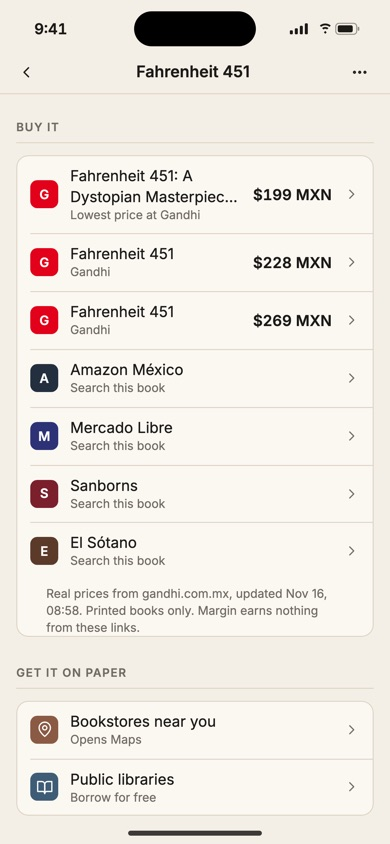
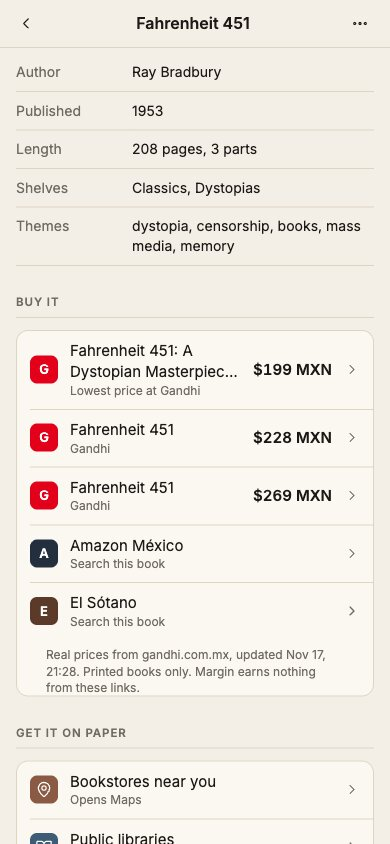
technical docs, updated design justification and website screenshots

diff --git a/site/index.html b/site/index.html
@@ -105,10 +105,10 @@
           <p>Choose 15, 25, 45 or 60 minutes and put the phone face down. It vibrates when time's up. In the iPhone version, the apps you pick go quiet until then.</p>
           <img class="step-img" loading="lazy" src="img/focus-390.webp" width="390" height="844" alt="Focus mode: choose 15, 25, 45 or 60 minutes, then put the phone face down.">
         </li>
-        <li class="step" data-shot="img/close.webp" data-alt="After logging, Margin says: now close the app and go read.">
-          <h3><span class="n">5</span>Close the app</h3>
-          <p>After you log, Margin tells you to close it and go read. There is no feed to scroll. Reminders come four times a week at most, with a line from your book.</p>
-          <img class="step-img" loading="lazy" src="img/close-390.webp" width="390" height="844" alt="After logging, Margin says: now close the app and go read.">
+        <li class="step" data-shot="img/close.webp" data-alt="After logging: the pages you added, your momentum and a Done button.">
+          <h3><span class="n">5</span>Done for today</h3>
+          <p>After you log you see the pages you added and your momentum, and that's it. There is no feed to scroll. Reminders come four times a week at most, with a line from your book.</p>
+          <img class="step-img" loading="lazy" src="img/close-390.webp" width="390" height="844" alt="After logging: the pages you added, your momentum and a Done button.">
         </li>
       </ol>
       <div class="how-phone" aria-hidden="true">
@@ -182,7 +182,7 @@
         <div class="stores">
           <h3>Also searched from the book's page</h3>
           <p>Amazon México and El Sótano. Or skip buying: Margin can open the bookstores near you in Maps, or point you to a public library.</p>
-          <figure class="phone phone-xs"><img loading="lazy" src="img/buy.webp" width="780" height="1688" alt="Buy it section for Fahrenheit 451: Gandhi at $199, $228 and $269 MXN, then Amazon México, Mercado Libre, Sanborns and El Sótano."></figure>
+          <figure class="phone phone-xs"><img loading="lazy" src="img/buy.webp" width="780" height="1688" alt="Buy it section for Fahrenheit 451: Gandhi at $199, $228 and $269 MXN, then Amazon México and El Sótano."></figure>
         </div>
       </div>
     </div>

diff --git a/DesignJustification.md b/DesignJustification.md
@@ -42,10 +42,10 @@ Better to prevent the error than to explain it later (Norman; Nielsen 5).
 ## 5. Ethical design
 We didn't want guilt or aggressive notifications.
 - At most 4 reminders per week; if you ignore 3 in a row, they are cut in half, and they never arrive if you already read that day (`ReminderPlanner.cs`).
-- There is no infinite feed. The tabs are Home, Explore, Log, Diary and Profile, and the friends' activity on Home is a short list that ends.
-- At the end of the check-in: "Now close the app and go read."
+- There is no infinite feed. The tabs are Home, Explore, Log, Library and Profile, and the friends' activity on Home is a short list that ends.
+- At the end of the check-in you only see the pages you added and your momentum, and a "Done" button. Before, this screen said "Now close the app and go read" and offered "Keep reading in Focus mode". We took both out: when you log, your reading session is already over, so telling you to go read (or to read more) didn't make sense.
 
-<img src="screenshots/closing.jpg" width="240" alt="The app asks you to close it and read">
+<img src="screenshots/closing.jpg" width="240" alt="The end of a session: pages added, momentum and Done">
 
 ## 6. Transparent AI
 - Each quiz says the questions were made with AI and reviewed by people.
@@ -111,7 +111,7 @@ Nielsen's heuristic 6: it is easier to recognize than to remember.
 ## 13. Getting the book on paper (mapping)
 The goal is reading on paper, so the Book screen ends with "Buy it".
 - Real prices from Librerías Gandhi, only printed books, with the lowest one first. The price is the real one, not an estimate, and it says when it was updated.
-- Links to search the same book in other Mexican stores, using the Spanish title so the search works.
+- Links to search the same book in Amazon México and El Sótano, using the Spanish title so the search works.
 - It says that Margin earns nothing from these links.
 - The FIL Guadalajara banner on Home links to the real fair. You can close it and it disappears after the fair ends.
 
@@ -129,6 +129,13 @@ Fogg (B = MAP): if something is hard to start, fewer people try it. An account f
 - Friends only see a short public summary. You can hide your current book and set your activity to "Only me".
 - Reflections are never shared and we don't use your writing to train any AI.
 
+## 16. Starting and finishing a book (feedback and motivation)
+Starting a book is a big decision, so we gave it its own moment instead of a small toast.
+- "Start reading" is the main button (in the accent color) on a book page when you are not reading anything. If you are already reading another book, the main button stays "Want to read", so you don't replace your book by accident.
+- Before you start, a screen shows the length, about how many weeks it will take at your pace and today's goal. When you confirm there is a little confetti and you go back to Home to log your reading.
+- When you finish a book you see the achievements you unlocked, you can rate it, post a review or share it.
+- "Find your next book" asks five questions and also learns from what you read and rated (`NextBook.cs`). Every result says why it was picked, so it is not a black box.
+
 ## Summary: where each decision comes from
 | Decision | Why | File |
 |---|---|---|
@@ -139,11 +146,12 @@ Fogg (B = MAP): if something is hard to start, fewer people try it. An account f
 | Optional quiz with explanation | Testing effect, feedback | `QuizScreen` in `BookFlowScreens.cs` |
 | At most 4 reminders | Ethical design | `ReminderPlanner.cs` |
 | "Written by a human" stamp | Students worry that using AI makes them stop thinking | `ReflectionScreen` in `BookFlowScreens.cs` |
-| "Now close the app" | People understand better on paper | `ClosingScreen` in `BookFlowScreens.cs` |
+| Short end of session, just "Done" | The session is already over, no extra time in the app | `ClosingScreen` in `BookFlowScreens.cs` |
 | Friends see progress, no rankings | Social support without guilt | `SocialGraph.cs`, `ProfileSummary.cs` |
 | Search by name and invite link | Recognition over recall | `FindFriendsScreen` in `SettingsSocialScreens.cs`, `InviteLink.cs` |
 | Only lists, texts and YouTube links | Constraints, no infinite feed | `PostRules.cs` |
 | "Buy it" with real prices | Mapping to the real goal: a paper book | `Commerce.cs`, `Shop` in `MainScreens.cs` |
+| A screen to start a book, achievements at the end | Feedback, motivation | `StartBookScreen`, `FinishedScreen` in `BookFlowScreens.cs` |
 | Guest mode | Fogg: lower the cost to start | `WelcomeScreen` in `AuthScreens.cs`, `AccountService.cs` |
 
 What we changed because of the interviews and tests is in [UserResearch.md](UserResearch.md) and [UserTesting.md](UserTesting.md).

diff --git a/TECHNICAL.md b/TECHNICAL.md
@@ -1,0 +1,75 @@
+# Technical documentation
+
+How the code is organized and how to change it.
+
+## Folders
+
+- `Assets/Scripts/Core`: the logic in plain C# (no Unity). Reading momentum, the check-in, the quiz, recommendations, reminders and the social rules.
+- `Assets/Scripts/App`: the Unity app. Screens, saving, notifications and the connection to the backend.
+- `Assets/Editor`: creates the scene and sets up the iOS build.
+- `Assets/Resources/Data`: the data files (`books.json`, `reviews.json`, `quotes.json`, `tuning.json`, `backend.json`).
+- `Assets/Resources/UI/app.uss`: colors and styles.
+- `Assets/Tests/EditMode` and `tests-dotnet/`: the tests.
+- `preview/`: the web version of the app (plain JavaScript).
+- `site/`: the website.
+
+Core doesn't use Unity at all, so we can test it with `dotnet test` in a few seconds. The screens only show what Core calculates.
+
+## Core (main files)
+
+- `HabitEngine.cs`: reading momentum. `M = 0.85 · M_previous + 0.15 · min(pages / goal, 1.5)`.
+- `ReadingService.cs`: checks and saves the page you log, and sees if you finished a chapter.
+- `Edition.cs`: adjusts the chapters to your edition, because every publisher has a different number of pages.
+- `QuizEngine.cs`: grades the chapter quiz.
+- `Recommender.cs`: simple recommendations with a reason ("Shares themes with...").
+- `TasteQuiz.cs`: the quiz to choose your first book.
+- `NextBook.cs`: "Find your next book". It mixes your answers with what you read, rated, dropped or want to read.
+- `ReminderPlanner.cs`: at most 4 reminders a week, fewer if you ignore them, none if you already read.
+- `Tuning.cs`: the numbers you can change in `tuning.json`.
+- `Social/`: usernames, friends, activity, posts, store links and the backend config.
+
+## App
+
+The Unity screens are a port of the web app, screen by screen, so both work the same. Most names are the same in both (`HomeScreen`, `LogSheet`, `Nav.Push`, `Data.Save`).
+
+- `MarginApp.cs`: starts the app, loads the data and the session, and opens the first screen.
+- `Web/H.cs` and `Web/Components.cs`: small helpers to build the UI (cover, stars, avatar, buttons, sheets, confetti).
+- `Web/Nav.cs`: navigation between screens.
+- `Web/Screens/`: the screens. `AuthScreens.cs` (sign up, log in, setup, the book quizzes), `MainScreens.cs` (Home, Explore, Library, Profile), `BookFlowScreens.cs` (book page, log, quiz, reflection, start and finish a book, Focus mode), `SettingsSocialScreens.cs` (settings, friends, posts), `LibraryAdd.cs` and `BookSearch.cs`.
+- `Services/`: saving the diary, notifications, the Focus mode app list and the backend connection (`Services/Net/`).
+
+## Backend
+
+Accounts, friends, posts, reviews and prices are in a Supabase project. The web and the iPhone app use the same one, so friends can use either.
+
+- Tables: `profiles` (public info and profile photo), `reading_states` (your private diary), `friendships`, `follows`, `activity`, `posts`, `reviews`, `book_prices`.
+- Every table has row level security. The apps only have the public key (in `backend.json`).
+- `book-prices` is an edge function that gets real Gandhi prices and saves them for 24 h.
+- The diary is saved on the phone first, so logging works without internet. Then it syncs.
+- Guest mode uses anonymous sign-in. "Save your account" adds an email and password later.
+
+## Main flow
+
+```
+Welcome → Setup (first time) → Home → Log reading
+  → finished a chapter with a quiz? → Quiz → Reflection (optional) → Session done
+  → finished the book? → Achievements and review
+```
+
+Starting a book always goes through the "A new book" screen.
+
+## Config
+
+`Assets/Resources/Data/tuning.json` changes how the app behaves without touching code: the momentum numbers, the number of reminders, the max pages per check-in, the quiz pass ratio and the recommender weights. If a value doesn't make sense, the app ignores it and uses the default. In the web the shared defaults are at the top of `preview/js/data.js` (`PLAN`, `FOCUS`, `TIMING`).
+
+## How to add things
+
+- A book: add it to `books.json` with its chapters. Add the cover in `Covers/` and the reviews in `reviews.json` if you have them. The data tests check that it is well formed.
+- A screen: make it in the web first, then copy it to a class that inherits from `WebScreen` and open it with `Nav.Push(new MyScreen())`.
+- Colors: only change the tokens in `app.uss` and `preview/css/app.css`.
+
+## Tests
+
+- `dotnet test tests-dotnet`: 123 tests for Core and the data files.
+- In Unity: Window › General › Test Runner › EditMode › Run All.
+- Web: `node --test preview/tests/*.test.mjs` checks that the web logic follows the same rules as the C# one.

diff --git a/README.md b/README.md
@@ -72,4 +72,4 @@ For the demo: Settings › Simulate next day moves the app's clock one day ahead
 - Build: PENDING
 - Commercial: PENDING
 
-Other documents: [DesignJustification.md](DesignJustification.md), [UserResearch.md](UserResearch.md), [UserTesting.md](UserTesting.md), [AIUsage.md](AIUsage.md).
+Other documents: [TECHNICAL.md](TECHNICAL.md), [DesignJustification.md](DesignJustification.md), [UserResearch.md](UserResearch.md), [UserTesting.md](UserTesting.md), [AIUsage.md](AIUsage.md).
